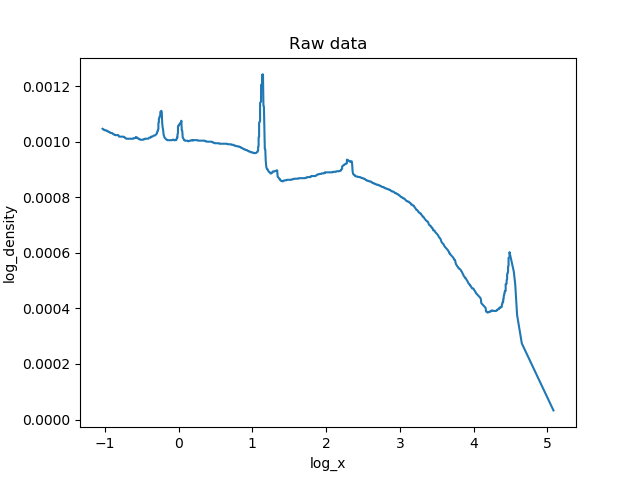
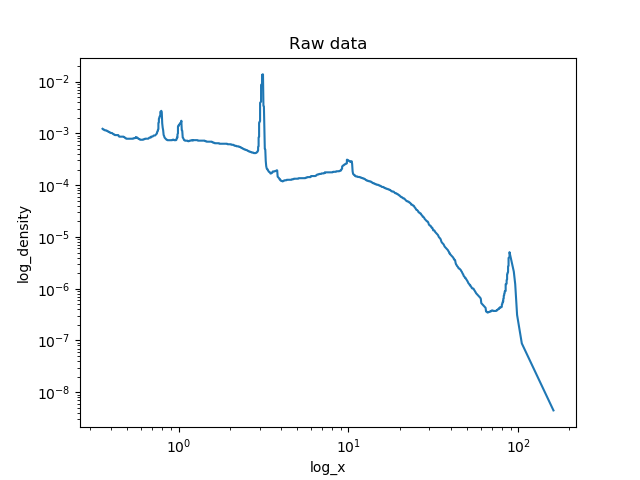
edits

diff --git a/Mixtue Models/density_estimation_dpmm.py b/Mixtue Models/density_estimation_dpmm.py
@@ -23,43 +23,45 @@ N=100000
 # Chris data 
 
 data = pd.read_csv('Data/1dDensity.csv', sep=',', names=['x','density'])
+data['prob'] = data['density']/ np.sum(data['density'])
+data['cdf'] = np.cumsum(data['prob'])
 
 log_data = np.log(data)
-probabilities = log_data['density']/np.sum(log_data['density'])
-cprob = np.cumsum(probabilities)
-x = log_data['x']
-log_data['prob'] = probabilities
-log_data['cdf'] = cprob
+log_data['prob'] = log_data['density']/np.sum(log_data['density'])
+log_data['cdf'] = np.cumsum(log_data['prob'])
 
-#q = lambda x: stats.cauchy.pdf(x,-1, 10)
-#M = 0.05
 
 plt.figure()
-plt.plot(log_data['x'], probabilities, '-')
+plt.plot(data['x'], data['prob'], '-')
+plt.plot(data['x'], data['density'], '-')
+plt.yscale('log')
+plt.xscale('log')
 plt.xlabel('log_x')
 plt.ylabel('log_density')
 plt.title('Raw data')
-#plt.plot(log_data['x'], M*q(log_data['x']))
 
-#x_samples = np.random.choice(x,N)
+plt.figure()
+plt.plot(np.log(data['x']), np.log(data['density']))
+plt.xlabel('log_x')
+plt.ylabel('log_density')
+plt.yscale('log')
 
-u = np.random.uniform(np.min(cprob), 1, (N, ))
+u = np.random.uniform(np.min(log_data['cdf']), 1, (N, ))
 
 #Find the location 
-
+   
 samples = []
 for i in u:
     loc = np.where(log_data['cdf'] <= i)[0][-1]
-    samples.append(log_data['x'][loc])
+    lower_limit = log_data['x'][loc]
+    upper_limit = log_data['x'][loc+1]
+    samples.append(np.random.uniform(lower_limit, upper_limit))
 
-#samples = pd.Series([(x_samples[i]) for i in range(N) if u[i] < probabilities[np.where(x == x_samples[i])[0][0]] / (M * q(x_samples[i]))])
 
 plt.figure()
-plt.hist(samples, bins=1000, density=True)
-plt.plot(x, probabilities*2000, 'bo', markersize=2)
-plt.plot(x, probabilities*2000, 'r-', markersize=0.2)
-#plt.vlines(x, ymin=0, ymax=probabilities*2000, alpha=0.2)
-#plt.bar(x, probabilities*2000, align='edge', alpha=0.2)
+plt.hist(samples, bins=500, density=True, log=True, alpha=0.8)
+plt.title('Samples generated using inverse CDF', fontsize='small')
+plt.xscale('log')
 
 # Given 2 points of a discrete distribution, form a continuous pdf connecting the two points
 

diff --git a/GP/Hyperparameter Integration/gp_hyp_analysis.py b/GP/Hyperparameter Integration/gp_hyp_analysis.py
@@ -27,7 +27,7 @@ X_star = np.linspace(0,13,1000)[:,None]
 # Covariance kernel parameters 
 
 lengthscale = 1.0
-noise_var = 0.5
+noise_var = 0.2
 sig_var = 2.0
 
 cov = sig_var*pm.gp.cov.ExpQuad(1, lengthscale)
@@ -66,7 +66,6 @@ post_mean = np.dot(K_s.T.eval(), alpha)
 
 post_cov = K_ss.eval() - K_s.T.dot(K_inv).dot(K_s)
 post_std = np.sqrt(np.diag(post_cov.eval()))
-#ost_cov = K_ss.eval() - np.dot(v.T, v)
 
 samples = np.random.multivariate_normal(post_mean, post_cov.eval(), 10)
 
@@ -94,11 +93,15 @@ with pm.Model() as latent_gp_model:
     # Place a GP prior over the function f.
     f = gp.prior("f", X=X)
     
+    y = 
     f_star = gp.conditional("f_star", X_star)
     
-    plt.figure()
-    plt.plot(X, f.eval(), "dodgerblue", lw=1.4, label="True f",alpha=0.7);
-    plt.plot(X_star, f_star.eval(), color='r', lw=2, label='Posterior mean')
+    trace = pm.sample(100)
+
+mu, cov = gp.predict(X_star, point)
+    #plt.figure()
+    #plt.plot(X, f.eval(), "dodgerblue", lw=1.4, label="True f",alpha=0.7);
+    #plt.plot(X_star, f_star.eval(), color='r', lw=2, label='Posterior mean')
    
 # Type II ML estimation 
 
